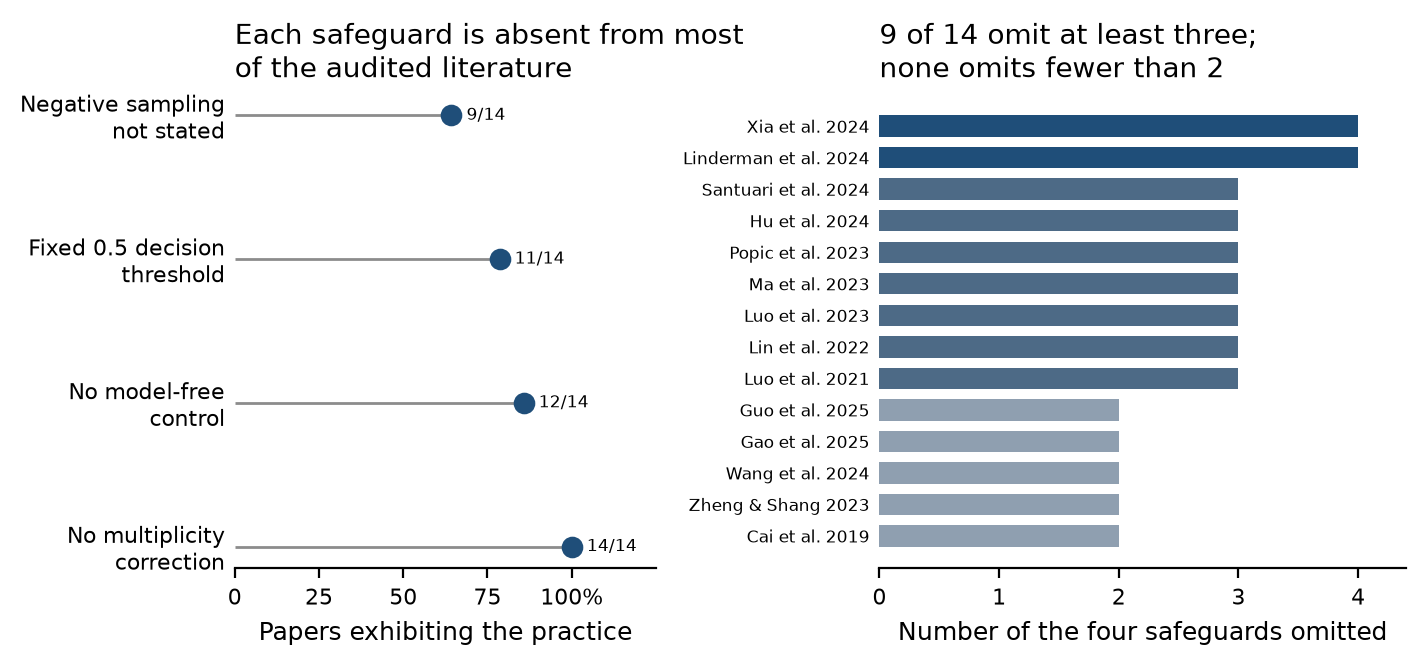
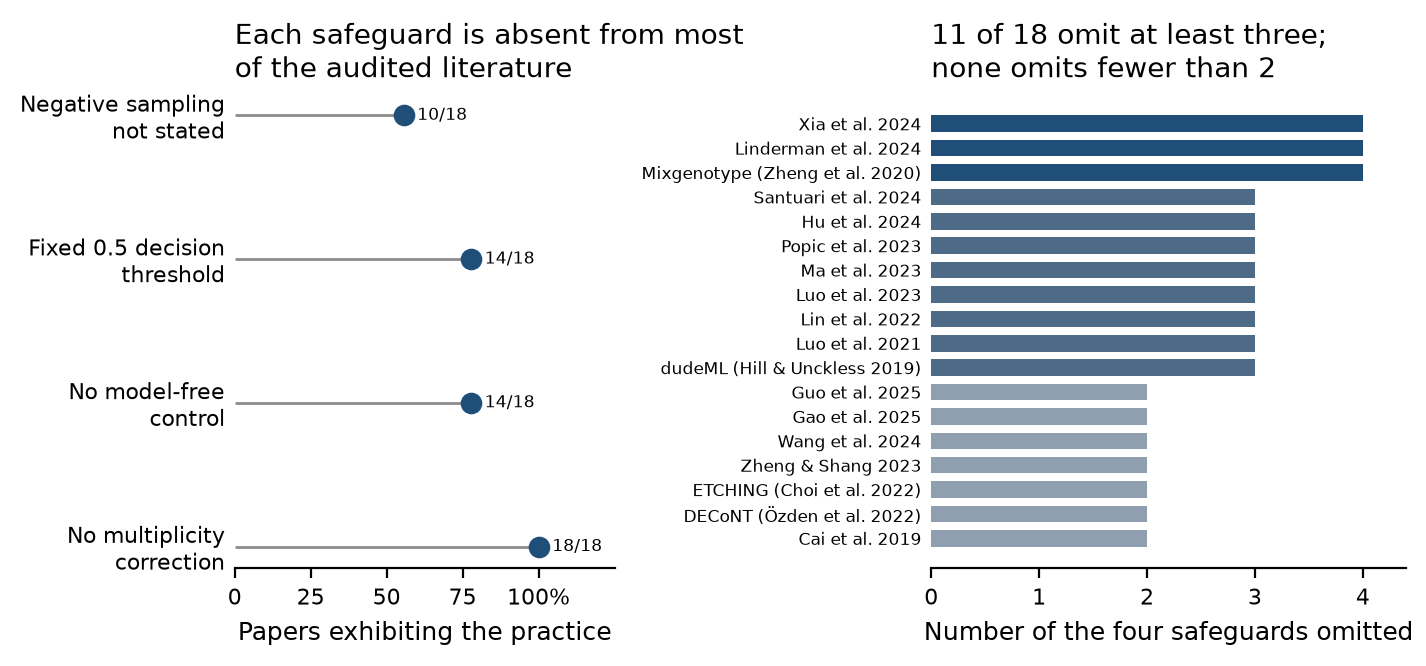
Code the four retrievable papers the completeness screen surfaced
Section 8 declared the field audit's majority claim provisional and justified
not resolving it by asserting that the five papers the completeness screen had
surfaced "were not retrievable within this study." That justification was false:
retrieval was attempted for all five and four were obtained (two as full text
via PubMed Central, two as PDFs). Only 10.1093/bib/bbaa370 has no open-access
route.

The four are now coded, so the claim is settled by measurement rather than
defended by argument:

- Eligibility was decided first, from full text, against the pre-registered
  two-part rule and recorded with verified supporting quotations, BEFORE any
  evaluation axis was coded. Adding papers after seeing that a majority claim
  is fragile invites selective inclusion; deciding eligibility first removes
  the opportunity.
- The coding instrument is the original one, recovered verbatim rather than
  rewritten: same axis definitions, same enumerated codes, same forced output
  schema, same verbatim-quote requirement. Rewriting it would have changed the
  instrument the first 14 papers were held to.
- All 16 new codes carry a quotation verified as a literal span of its source.
  Two verification failures were diagnosed rather than waived. ETCHING is a
  preprint whose extracted text carries gutter line numbers interleaved
  mid-sentence; a positionally constrained cleaner strips digit runs only at
  line starts, audited by confirming every alphabetic word survives. One quote
[…]

diff --git a/docs/AlignSSL_SV_manuscript.md b/docs/AlignSSL_SV_manuscript.md
@@ -27,7 +27,7 @@ We then repair the benchmark itself, twice. Quantile-matched candidate negatives
 
 Re-run under all three corrections, what survives is narrow but not empty. Self-supervised pretraining confers no threshold-free advantage at any label budget on either constructed-negative benchmark; the sole exception is on the caller-candidate benchmark at 33 labels, where it leads from-scratch training at ROC-AUC 0.778 versus 0.545 and survives correction within its family (Holm *p* = 0.017) — one cell, not persisting past 10% labels and reversing by 50%, and with both arms behind the hand-crafted control at that budget. The *representation* does: tested directly against the DeepSV RGB pileup across 72 paired comparisons (Section 4.10), the learned alignment tensor separates after Holm correction in 24, with 22 of those 24 belonging to the *from-scratch* arm — so the advantage is attributable to the multi-channel encoding rather than to self-supervision on it. In 42 of the 48 non-separating cells the observed difference is below the minimum effect this four-seed design could detect at 80% power, so much of that grid is uninformative rather than negative. The hand-crafted control is never beaten by any deep arm at any budget on any of the three benchmarks, and its lead is statistically significant across most of the label range — decisively so where labels are scarce, the regime the deep method is proposed for.
 
-**Conclusion.** We report this as a methodological result rather than a method paper. Each defect is individually mundane and each is, by a coded audit of 14 papers from this literature (Section 7), the field's default: benchmarks built from randomly-sampled negatives, F1 reported at a fixed cut, and label budgets computed per-arm are all standard practice in this literature. Together they were sufficient to produce a confident, statistically significant, entirely artefactual headline. We publish the corrections, the controls, and the code that implements them so that the next paper in this lineage can be checked against them.
+**Conclusion.** We report this as a methodological result rather than a method paper. Each defect is individually mundane and each is, by a coded audit of 18 papers from this literature (Section 7), the field's default: benchmarks built from randomly-sampled negatives, F1 reported at a fixed cut, and label budgets computed per-arm are all standard practice in this literature. Together they were sufficient to produce a confident, statistically significant, entirely artefactual headline. We publish the corrections, the controls, and the code that implements them so that the next paper in this lineage can be checked against them.
 
 **Availability.** Code, the tensor-extraction pipeline, result tables and figures are at https://github.com/aayushkrm/AlignSSL-SV (MIT licence).
 
@@ -648,11 +648,17 @@ were excluded for a recorded reason: target is SNV or short indel rather than SV
 survey row had filed it under the SV theme); no trained classifier, i.e.
 heuristic, statistical, assembly- or *k*-mer-based (9); benchmark or truth-set
 paper rather than a method (5); review or survey (10); genomic language model
-whose target is not SV (10). The rule admits 19 papers spanning 2017–2025,
-including the DeepSV paper this work extends. Of these, 14 had a
-full text we could retrieve through open-access routes; 5 were paywalled
-with no available route and are recorded as uncoded rather than guessed at. The
-coded set spans 7 venues (BMC Bioinformatics × 4, Briefings in Bioinformatics × 3, Nature Methods × 2, Bioinformatics × 2, Frontiers in Genetics × 1, bioRxiv (preprint) × 1, Nature Biotechnology × 1).
+whose target is not SV (10). The rule admits 24 papers spanning 2017–2025,
+including the DeepSV paper this work extends. Of these, 18 had a
+full text we could retrieve through open-access routes; 6 had none and
+are recorded as uncoded rather than guessed at.
+Four of the 18 were added on 2026-08-11: they satisfy the pre-registered rule
+but were surfaced by the independent completeness screen of Section 8 rather than
+by the 62-paper survey, and are marked as such in the `provenance` column of
+`results/table17_audit_population.csv`. Their eligibility was decided from full
+text, and recorded with supporting quotations, before their evaluation axes were
+coded, so inclusion could not be conditioned on which way a paper moves the result. The
+coded set spans 11 venues (BMC Bioinformatics × 4, Briefings in Bioinformatics × 3, Bioinformatics × 2, Nature Methods × 2, BMC Medical Genomics, Frontiers in Genetics, G3, Genome Research, Nature Biomedical Engineering, Nature Biotechnology, bioRxiv (preprint)).
 The full population with per-row inclusion status and reason is
 `results/table17_audit_population.csv`.
 
@@ -688,7 +694,11 @@ than folding into the defect count.
 | Paper | Year | Venue | Negative sampling | Threshold rule | Model-free control | Multiplicity | Safeguards omitted |
 |---|---|---|---|---|---|---|---|
 | Cai et al. 2019 | 2019 | BMC Bioinformatics | not stated | not stated | no | none | 2 |
+| dudeML (Hill & Unckless 2019) | 2019 | G3 | simulated | fixed 0.5 | yes | seeds, uncorrected | 3 |
+| Mixgenotype (Zheng et al. 2020) | 2020 | BMC Medical Genomics | simulated | fixed 0.5 | no | seeds, uncorrected | 4 |
 | Luo et al. 2021 | 2021 | BMC Bioinformatics | not stated | fixed 0.5 | no | none | 3 |
+| DECoNT (Özden et al. 2022) | 2022 | Genome Research | not stated | fixed 0.5 | yes | none | 2 |
+| ETCHING (Choi et al. 2022) | 2022 | Nature Biomedical Engineering | caller candidates | tuned on validation | no | seeds, uncorrected | 2 |
 | Lin et al. 2022 | 2022 | Nature Methods | not stated | fixed 0.5 | no | none | 3 |
 | Luo et al. 2023 | 2023 | Frontiers in Genetics | not stated | fixed 0.5 | no | none | 3 |
 | Ma et al. 2023 | 2023 | BMC Bioinformatics | caller candidates | fixed 0.5 | no | none | 3 |
@@ -702,7 +712,7 @@ than folding into the defect count.
 | Gao et al. 2025 | 2025 | Briefings in Bioinformatics | not stated | not stated | no | none | 2 |
 | Guo et al. 2025 | 2025 | Briefings in Bioinformatics | not stated | not stated | no | none | 2 |
 
-**Table 15. Coded evaluation design of the 14 retrievable papers in the audit
+**Table 15. Coded evaluation design of the 18 retrievable papers in the audit
 population. "Safeguards omitted" counts the strict defects only — documented
 easy negatives, a documented fixed threshold, absence of a model-free control,
 and absence of multiplicity correction — and does not penalise a paper for
@@ -711,58 +721,62 @@ failing to state its protocol. Full quotations in
 
 The four axes behave differently.
 
-**No coded paper corrects for multiplicity.** All 14 coded
-papers apply no family-wise correction to any significance claim.
-1 reports multi-seed variability without correcting; the remaining
-13 report neither.
+**No coded paper corrects for multiplicity.** 18 of 18
+coded papers — that is, all of them — apply no family-wise correction to any
+significance claim.
+4 report multi-seed variability without correcting; the remaining
+14 report neither.
 
-**A model-free control is nearly as rare.** 12 of 14
-report no non-learned reference of any kind. The 2 exceptions are
-Zheng & Shang 2023 and Wang et al. 2024. Without such a control, a paper cannot
+**A model-free control is nearly as rare.** 14 of 18
+report no non-learned reference of any kind. The 4 exceptions are
+Zheng & Shang 2023, Wang et al. 2024, dudeML (Hill & Unckless 2019) and DECoNT
+(Özden et al. 2022). Without such a control, a paper cannot
 distinguish what its architecture contributes from what its benchmark gives
 away — which is exactly the measurement that changed this project's conclusion
 (Section 4.2).
 
-**Thresholding is dominated by the fixed 0.5 cut.** 11 of 14
-papers report their headline metric at a fixed default probability cut, and
+**Thresholding is dominated by the fixed 0.5 cut.** 14 of 18
+papers report their headline metric at a fixed default probability cut,
+1 tunes the cut on a validation split (ETCHING), and
 3 do not state a rule. No paper in the population reports its headline
 comparison threshold-free. As an independent mechanical check, we searched each
 full text for any mention of a threshold-free metric (AUC, AUROC, AUPRC,
 average precision, precision–recall curve):
-10 of 14
+13 of 18
 never mention one anywhere in the paper.
 
 **Negative-sampling protocol is most often simply not stated.** Only
-5 of 14 papers state how their negative
-training examples were obtained: 2 draw them from
-caller candidates, 2 from simulation, and
+8 of 18 papers state how their negative
+training examples were obtained: 3 draw them from
+caller candidates, 4 from simulation, and
 1 — Zheng & Shang 2023 — matches negatives to positives.
-The remaining 9 do not say. We count non-statement as a
+The remaining 10 do not say. We count non-statement as a
 reporting failure rather than as evidence of easy negatives, which is why the
 strict defect count in Table 15 is conservative: it credits a paper with the
 safeguard whenever the text is silent.
 
 Taken together, no coded paper reports all four safeguards, and none
-omits fewer than two. 9 of 14 omit at
-least three on the strict count, and 2 omit all four.
+omits fewer than two. 11 of 18 omit at
+least three on the strict count, and 3 omit all four.
 Under the lenient count that treats non-statement as omission,
-10 of 14 omit all four.
+14 of 18 omit all four.
 
-![Figure 10. Left: the fraction of audited papers exhibiting each of the four evaluation practices. Right: per-paper count of safeguards omitted on the strict definition, which does not penalise a paper for failing to state its protocol. Population: 14 retrievable full texts from the 19 papers that meet the inclusion rule, 2019–2025. Sources and quotations in `results/table18_field_audit.csv` and `results/table19_field_audit_quotes.csv`.]({{artifact:art_50ca4ee6-e9c3-41f5-a745-8eed2ac1ff40}})
+![Figure 10. Left: the fraction of audited papers exhibiting each of the four evaluation practices. Right: per-paper count of safeguards omitted on the strict definition, which does not penalise a paper for failing to state its protocol. Population: 18 retrievable full texts from the 24 papers that meet the inclusion rule, 2019–2025. Sources and quotations in `results/table18_field_audit.csv` and `results/table19_field_audit_quotes.csv`.]({{artifact:art_50ca4ee6-e9c3-41f5-a745-8eed2ac1ff40}})
 
 ### 7.4 What this does and does not license
 
 It licenses the generality claim in a bounded form: the four defects documented
-in this manuscript are not idiosyncratic to our pipeline. Among the 14 papers we
-could retrieve and code, three of the four axes are absent in at least 11.
+in this manuscript are not idiosyncratic to our pipeline. Among the 18 papers we
+could retrieve and code, three of the four axes are absent in at least 14.
 
-Three boundaries on that statement. First, the population is a **convenience
+Three boundaries on that statement. First, the population began as a **convenience
 sample** drawn from this project's related-work survey rather than a systematic
 search; an independent 2,334-record corpus screen identified five apparently
-eligible short-read SV papers absent from it, which leaves the *majority* claim
-below provisional (Section 8). Second, 5 of the 19 eligible papers were
-paywalled and are uncoded, so the coded set may be non-representative in an
-unmeasured direction. Third, "the paper does not report it" is not "the authors
+eligible short-read SV papers absent from it, four of which we retrieved and
+coded under the same instrument, leaving the *majority* claim bounded rather
+than settled (Section 8). Second, 6 of 24 eligible papers have no
+retrievable full text and are uncoded, so the coded set may be non-representative
+in an unmeasured direction. Third, "the paper does not report it" is not "the authors
 did not do it": coding is bounded by what a paper states. Accordingly we claim
 that these safeguards are **rarely reported** in this literature, not that they
 are never performed, and the per-axis counts should be read as statements about
@@ -796,7 +810,8 @@ resolved in the audited papers' favour.
 - **No demonstrated value from pretraining.** Under the corrected protocol and threshold-free scoring, the pretrained arm does not significantly exceed from-scratch training at *any* label budget on the uniform benchmark, and is significantly behind at 5% (Section 4.8). We report the pretraining machinery because it is the object the paper set out to evaluate, not because the evaluation vindicated it.
 - **Single-panel pretraining corpus.** The unlabelled pretraining corpus comes from three samples; corpus-size and diversity scaling are untested.
 - **Candidate filtering is a partial repair, and its benchmark is single-sample.** The repaired benchmark of Section 6 attenuates the depth shortcut to ROC-AUC 0.717 but does not eliminate it; a threshold baseline on the residual signal remains available to any method. It is also single-sample — NA20845 (GIH) for train and in-distribution test, NA12878 (CEU) held out — with 1,516 test windows against 9,196 for the uniform benchmark, because a mid-study loss of the shared reference directory left only two of the six panel alignments recoverable. Section 6's error bars are correspondingly wider than Section 4's, and with three seeds per deep arm its ties should be read as *underpowered* rather than as demonstrated equivalence: the pretrained-versus-scratch contrast at full supervision (*p* = 0.431) would need more seeds to exclude a small effect. What that section can support is the absence of the *large* low-label advantage originally claimed, which the uniform benchmark independently rejects at ten times the test-set size.
-- **The field audit's population is a convenience sample, and its majority claim is not robust to that.** The 19-paper audit population of Section 7 was derived from the 62-paper related-work survey assembled for this project, not from a systematic pre-registered search. To test its completeness we screened an independently assembled 2,334-record corpus (OpenAlex phrase queries, citation-graph expansion from anchor callers, and PubMed, restricted to 2018+) against Section 7's own inclusion rule, and found five short-read SV papers that appear eligible and are absent from the population: `10.1093/bib/bbaa370`, `10.1534/g3.119.400596`, `10.1038/s41551-022-00980-5`, `10.1101/gr.274845.120`, and `10.1186/s12920-020-00733-w` (eligibility judged from abstracts only; full-text coding would be required to confirm). This matters for one specific claim. The universal findings are unaffected in direction — an additional five papers cannot make "14 of 14 apply no multiplicity correction" false for the papers already coded — but the *majority* claim is fragile: "9 of 14 omit at least three safeguards" (0.64) becomes 9/19 = 0.47 if all five newly identified papers turn out to omit none, and 14/19 = 0.74 if all five omit three or more. Because the adversarial case crosses one half, **Section 7's majority claim should be read as provisional pending full-text coding of those five papers**, while its per-axis counts remain statements about the 14 papers actually coded. We report this rather than re-running the audit because the five full texts were not retrievable within this study, and a partial re-code would substitute a different unquantified bias for a stated one. The screen is released as `results/table21_audit_completeness_screen.csv`.
+- **The field audit's population was a convenience sample; four of the five papers the completeness screen surfaced have since been coded, and the majority claim remains bounded rather than settled.** The audit population of Section 7 was derived from the 62-paper related-work survey assembled for this project, not from a systematic pre-registered search. To test its completeness we screened an independently assembled 2,334-record corpus (OpenAlex phrase queries, citation-graph expansion from anchor callers, and PubMed, restricted to 2018+) against Section 7's own inclusion rule, and found five short-read SV papers that appeared eligible and were absent from the population. We then attempted retrieval of all five: four were obtained (`10.1534/g3.119.400596`, `10.1038/s41551-022-00980-5`, `10.1101/gr.274845.120`, `10.1186/s12920-020-00733-w`) and have been coded under the same instrument, verified quotations and pre-registered eligibility rule as the original set; one (`10.1093/bib/bbaa370`) has no open-access full text and is recorded in the population as eligible-but-uncoded. Coding the four moved the observed majority from 9 of 14 (0.64) to 11 of 18 (0.61) — a slight decline that stays above one half — so the claim survived the test that prompted it rather than being defended by argument. Two of the four additions also break patterns the original 14 made look universal: ETCHING is the first coded paper to tune its decision threshold on a validation split rather than take a default, and dudeML and DECoNT double the number of papers carrying any model-free control. Both corrections move against this manuscript's own rhetorical interest and are reported for that reason. It is nonetheless still bounded rather than settled: 6 of 24 eligible papers remain uncoded for want of an accessible full text, and the adversarial bound is 11/24 = 0.46 if every uncoded paper omits no safeguard and 17/24 = 0.71 if every one omits three or more. Because that interval still crosses one half, **Section 7's majority claim should be read as an estimate over the coded set with a stated worst case, not as a population claim**; its per-axis counts are statements about the 18 papers actually coded. The universal findings are unaffected in direction: no coded paper corrects for multiplicity, and no additional paper can make that false for the papers already coded. The screen is released as `results/table21_audit_completeness_screen.csv` and the per-row provenance of every audit population entry as `results/table17_audit_population.csv`.
+
 - **Single coverage regime.** All alignments are high-coverage (~30x) PCR-free Illumina. Robustness to lower coverage, PCR-positive libraries, or different read lengths is untested; the depth-derived channels are the ones most likely to be coverage-sensitive.
 - **One held-out population.** Cross-ancestry generalisation is measured against a single held-out population (NA12878, CEU). A single held-out ancestry cannot distinguish population-specific transfer loss from sample-specific idiosyncrasy.
 
@@ -813,7 +828,7 @@ It fails four controls, none of which is exotic:
 3. **The decision threshold.** Scoring F1 at a fixed 0.5 probability cut — the convention inherited from DeepSV — conflates ranking quality with calibration. Re-run under equal budgets and re-scored at a validation-selected threshold or threshold-free, the ten-fold gap becomes 1.05× (*p* = 0.527) and 1.02× (*p* = 0.853) respectively; at every larger budget the from-scratch arm is ahead. The from-scratch model was never degenerate. It ranked competently and scored timidly, and a fixed cut reads timidity as failure.
 4. **Multiplicity.** The fixed-cut result was the strongest cell of a six-budget sweep, reported as though it were a single test. Corrected for the family it was selected from it does survive (Holm *p* = 0.0012) — multiplicity is not what dismantles it, and we report that against our own expectation. Across the whole paper, 25 nominally significant tests in 11 pre-declared families reduce to 17 under Holm–Bonferroni, and the cross-ancestry effect reduces to chance.
 
-Each defect is individually mundane, each is the default in this literature — no paper in the audited population reports all four safeguards and 9 of 14 omit at least three (Section 7) — and each is invisible without the control that exposes it. Three concern how the numbers were measured; the fourth concerns how they were tested. Jointly they were sufficient to manufacture a large, statistically significant, entirely artefactual headline result — one we believed, wrote up, and would have submitted.
+Each defect is individually mundane, each is the default in this literature — no paper in the audited population reports all four safeguards and 11 of 18 omit at least three (Section 7) — and each is invisible without the control that exposes it. Three concern how the numbers were measured; the fourth concerns how they were tested. Jointly they were sufficient to manufacture a large, statistically significant, entirely artefactual headline result — one we believed, wrote up, and would have submitted.
 
 What survives is narrower and, we think, more useful. Where labels are scarce — the regime self-supervised pretraining is proposed for — no deep arm we trained beats twelve hand-crafted features on any of the three benchmarks. Repairing the benchmark helps but does not rescue the claim: quantile-matched candidate negatives attenuate the shortcut from ROC-AUC 0.955 to 0.717 and restore headroom (the same control now starts at chance and climbs +0.619 across the label range), yet the control still leads where it matters. Nor does abandoning synthetic negatives altogether: on a third benchmark whose positives and negatives are both real Manta candidates labelled against GIAB Tier1 — a negative set we did not construct, and an orthogonal truth set — the control leads at five of six budgets and is never beaten (Section 6.5).
 
